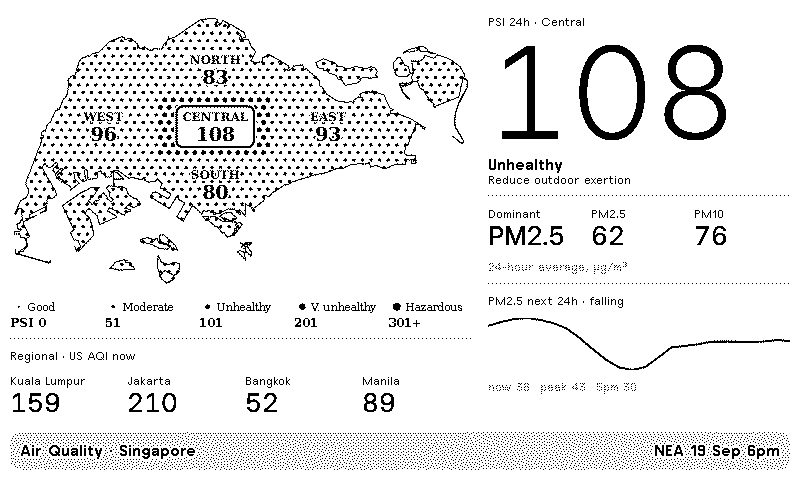
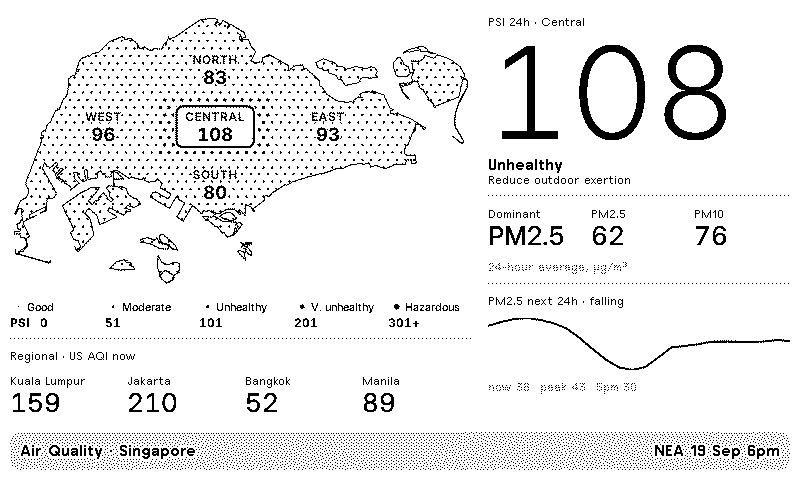
Lighten map shading and make its type match the rest of the screen
The framework sets font-family only on its own component classes, so the
bare SVG <text> on the map inherited nothing that resolves to a loaded
face and fell back to serif -- the only serif on the screen. Point the
map and legend text at the same font variable .value uses.

Dot radii drop from 0.9/1.6/2.3/3.0/3.7 to 0.6/1.1/1.6/2.1/2.6, taking
band 3 from roughly 30% ink coverage to 14%. The island reads as a shaded
map again rather than a block, and each band step still roughly doubles
its ink so the ramp stays legible at 1-bit.

The radii now live in one band_radii list that both the map and its legend
index, since the two previously duplicated the formula. Tests cover the
ramp's monotonicity, ink ceiling, per-step contrast, and that the rendered
circles only ever use radii from that list.

Also restore .trmnlp.yml to the Central default: the preview's field picker
rewrites that file, and an earlier commit swept up a stray selection.

diff --git a/tests/test_build_map.py b/tests/test_build_map.py
@@ -153,5 +153,52 @@ class TestBandThresholds(unittest.TestCase):
         self.assertEqual(chain, ["50", "100", "200", "300"])
 
 
+class TestDotRamp(unittest.TestCase):
+    """Dot radius is the map's only quantitative channel."""
+
+    def setUp(self):
+        raw = re.search(r"assign band_radii = '([^']*)'", SHARED).group(1)
+        self.radii = [float(v) for v in raw.split(",")]
+
+    def test_one_radius_per_band(self):
+        self.assertEqual(len(self.radii), 5)
+
+    def test_radii_increase_with_severity(self):
+        self.assertEqual(self.radii, sorted(self.radii))
+        self.assertEqual(len(set(self.radii)), 5, "two bands would look identical")
+
+    def test_ink_stays_below_half_coverage(self):
+        """Past ~50% ink the lattice reads as a solid block, not a shade."""
+        import math
+
+        spacing = int(re.search(r"assign map_dot_spacing = (\d+)", SHARED).group(1))
+        cell = spacing * spacing * math.sqrt(3) / 2
+        for band, r in enumerate(self.radii, start=1):
+            coverage = math.pi * r * r / cell
+            self.assertLess(coverage, 0.5, "band %d covers %.0f%% of its cell" % (band, coverage * 100))
+
+    def test_bands_are_distinguishable(self):
+        """Each step must add enough ink to be visible on a 1-bit panel."""
+        for a, b in zip(self.radii, self.radii[1:]):
+            self.assertGreater(b * b / (a * a), 1.4, "step from r=%s to r=%s is too subtle" % (a, b))
+
+    def test_map_and_legend_share_the_list(self):
+        full = (ROOT / "src" / "full.liquid").read_text()
+        self.assertIn("band_radii[forloop.index0]", full, "legend must index band_radii")
+        self.assertIn("band_radii[band_i]", SHARED, "map must index band_radii")
+        for src in (full, SHARED):
+            self.assertNotRegex(src, r"assign \w*_?r\w* = band[_ ]?\w* \| times:",
+                                "radius formula duplicated instead of shared")
+
+
+class TestSvgTypography(unittest.TestCase):
+    """Bare <text> inherits no framework font; the default fallback is serif."""
+
+    def test_map_text_declares_a_font(self):
+        block = re.search(r"\.aq-map text, \.aq-legend text \{([^}]*)\}", SHARED)
+        self.assertIsNotNone(block, "map/legend text must set its own font-family")
+        self.assertIn("font-family", block.group(1))
+
+
 if __name__ == "__main__":
     unittest.main()

diff --git a/tests/test_render.py b/tests/test_render.py
@@ -96,6 +96,33 @@ class TestCustomFieldCasing(unittest.TestCase):
 
 
 @unittest.skipUnless(docker_available(), "docker not available")
+class TestRenderedDotSizes(unittest.TestCase):
+    """Every dot drawn must come from the shared radius list."""
+
+    @classmethod
+    def setUpClass(cls):
+        cls.html = render("Central")
+        shared = (ROOT / "src" / "shared.liquid").read_text()
+        raw = re.search(r"assign band_radii = '([^']*)'", shared).group(1)
+        cls.allowed = {float(v) for v in raw.split(",")}
+
+    def test_all_circle_radii_come_from_band_radii(self):
+        radii = {float(r) for r in re.findall(r'<circle[^>]*\br="([\d.]+)"', self.html)}
+        self.assertTrue(radii, "no dots rendered")
+        self.assertTrue(
+            radii <= self.allowed,
+            "unexpected radii %s; band_radii is %s" % (sorted(radii - self.allowed), sorted(self.allowed)),
+        )
+
+    def test_legend_shows_every_band(self):
+        """The legend is what makes dot size decodable, so all five must draw."""
+        legend = re.search(r'<svg class="aq-legend".*?</svg>', self.html, re.S)
+        self.assertIsNotNone(legend)
+        radii = {float(r) for r in re.findall(r'<circle[^>]*\br="([\d.]+)"', legend.group(0))}
+        self.assertEqual(radii, self.allowed)
+
+
+@unittest.skipUnless(docker_available(), "docker not available")
 class TestUnknownRegion(unittest.TestCase):
     """A value that is not one of the five regions must fall back, not blank out."""
 

diff --git a/tests/test_api_contract.py b/tests/test_api_contract.py
@@ -96,7 +96,10 @@ class TestOpenMeteoFixture(unittest.TestCase):
             self.assertIsInstance(entry["current"]["us_aqi"], (int, float))
 
     def test_city_labels_match_the_requested_order(self):
-        names = re.search(r"'([^']*)' \| split: ','", SHARED)
+        # Anchor on the variable name: matching any "'...' | split: ','" would
+        # pick up whichever such list happens to come first in the file.
+        names = re.search(r"assign city_names = '([^']*)'", SHARED)
+        self.assertIsNotNone(names, "city_names not found in shared.liquid")
         labels = names.group(1).split(",")
         self.assertEqual(len(labels), len(self.doc) - 1,
                          "city_names must label every coordinate after Singapore")
